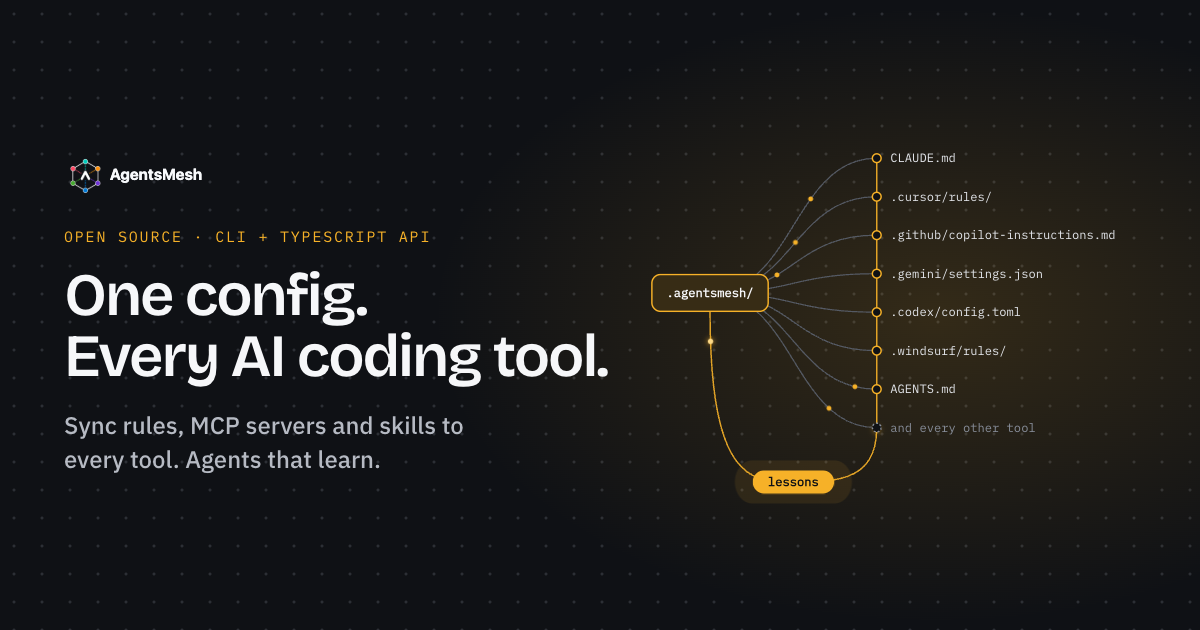
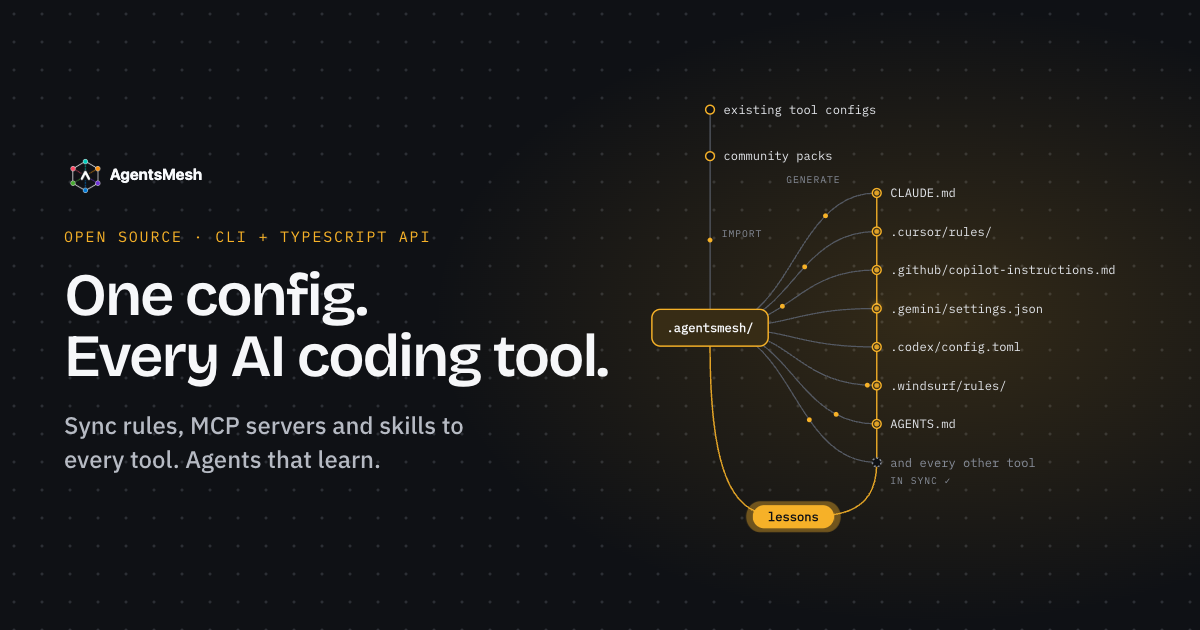
feat(website): draw the whole library flow as one cycle in the hero mesh
The mesh showed two motions, generate and lessons. It now reads as the full
cycle the site describes: existing tool configs and community packs drop down
an inlet rail into .agentsmesh/, the fan generates native config for every
tool, each tool dot gains an amber core once its first pulse lands (in sync),
and the lessons rail carries what the tools learn back into the source. Four
stage words — import, generate, in sync, lessons — and no feature list, so it
stays simple. The inlet rail mirrors the lessons rail, so the eye reads in,
source, out, back.

mesh-layout gains an optional inlet band above the fan (meshLayout extras
`inputs`, MeshBox `inletHeight`) and meshInlet(), the straight rail from the
first input to the top of the source; both tested, existing geometry unchanged
when no inputs are given.

The "in sync" fill is a second amber circle whose opacity animates, not a
fill keyframe: Chrome degenerates an SVG fill keyframe that targets color-mix()
to near-black, and its selector outranks the generic ring rule so the core is
amber rather than a smaller ring. Verified against the production build served
from dist, because the dev server kept serving a stale scoped-style module for
the component after the edit. Social card re-rendered from the new mesh.

diff --git a/website/src/content/data/home.ts b/website/src/content/data/home.ts
@@ -167,6 +167,12 @@ export const HOME_FAQ: readonly HomeFaq[] = [
 ];
 
 /** Output paths drawn on the hero mesh. Decorative; the matrix page is the source of truth. */
+/** What flows INTO `.agentsmesh/` in the hero mesh, top to bottom. */
+export const HOME_MESH_INPUTS: readonly string[] = ['existing tool configs', 'community packs'];
+
+/** The stage words on the hero mesh, in the order the flow reads. */
+export const HOME_MESH_STAGES = { in: 'import', out: 'generate', sync: 'in sync ✓' } as const;
+
 /** The return path in the hero mesh: what the tools learn flows back into `.agentsmesh/`. */
 export const HOME_MESH_LOOP: { readonly label: string } = { label: 'lessons' };
 
